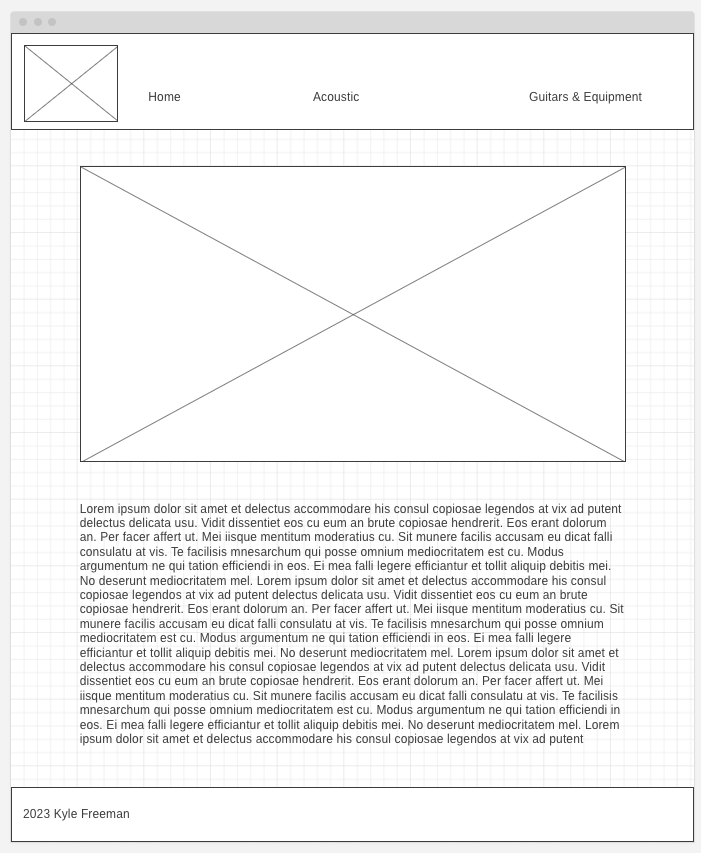
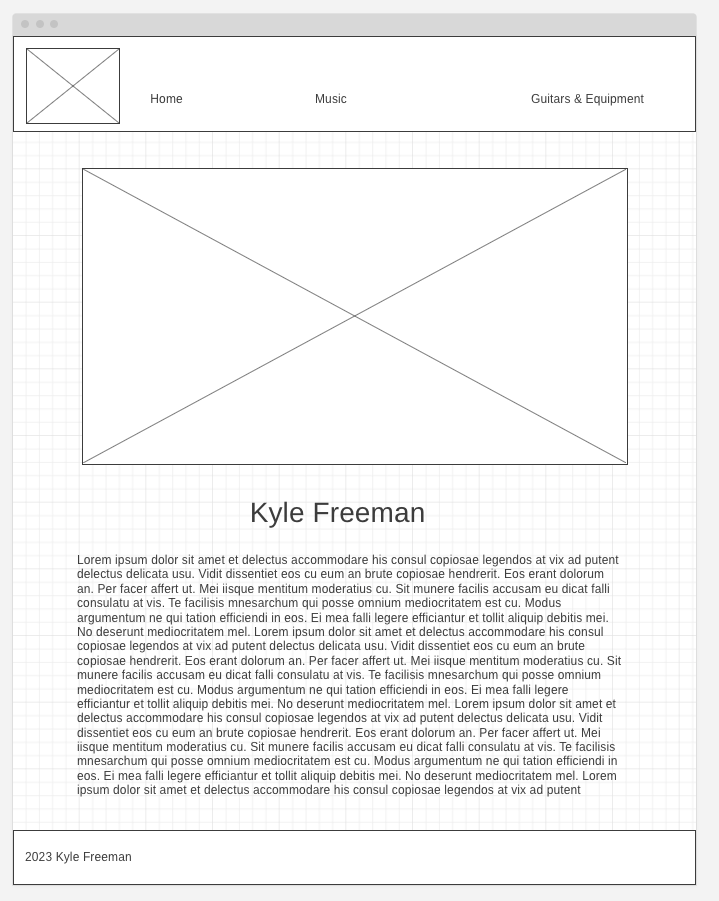
Updates to wireframes

diff --git a/kyleacoustic/site-plan.html b/kyleacoustic/site-plan.html
@@ -88,7 +88,7 @@
       <!-- Think about how you want your navigation bar to look. In the site-plan.css file change the colors to your colors to get the look you desire. --> 
       <nav>
         <a href="#">Home</a>
-        <a href="#">ACOUSTIC ALBUM</a>
+        <a href="#">MUSIC</a>
         <a href="#">GUITARS & EQUIPMENT</a>
       </nav>
       <hr>
@@ -100,7 +100,7 @@
           Home
         </div>
         <div class="sm-page2">
-          ACOUSTIC ALBUM <!-- change this -->
+          MUSIC <!-- change this -->
         </div>
         <div class="sm-page3">
           GUITARS & EQUIPMENT  <!-- change this -->
@@ -161,7 +161,7 @@
       </p>
 
       </ul>
-      <h3>ACOUSTIC ALBUM</h3>
+      <h3>MUSIC</h3>
       
       <h4>Jessie’s Song</h4>
       <p>
@@ -241,7 +241,10 @@
         <li>Are the overlays and timings right?</li>
         <li>Are there notes that tend to clash with each other, rather than making it an interesting piece?</li>
       </ul>
+      <p> 
         I happen to use the Boss RC-20XL for live playing and recording. I do have the Boss RC-50, which gives you a lot of options while performing, but, be aware that the first iteration of the first loop will have a slight dead pause at the beginning of the first loop back. After the first iteration of the loop plays through, the pause is gone for the rest of the playing time for that particular song. This is very frustrating when playing a live performance. The only way to minimize the pause duration with the RC-50 is to give priority to “audio” vs. “rhythm.” Unfortunately, you’ll only find one line in the last paragraph in the back of the instruction booklet that gives you this little bit of information.
+      </p>
+      <p>
         Hope this information helps!
       </p>
       <p>Images for the Page 3</p>
@@ -266,7 +269,7 @@
       </p>
       <img src="images/kyleacoustic_wireframe_home.png" alt="home page wireframe">
 
-      <h3>ACOUSTIC ALBUM</h3>
+      <h3>MUSIC</h3>
       <p>         
         [Any additional details about page 2 that the wireframe does not make clear]
       </p>
